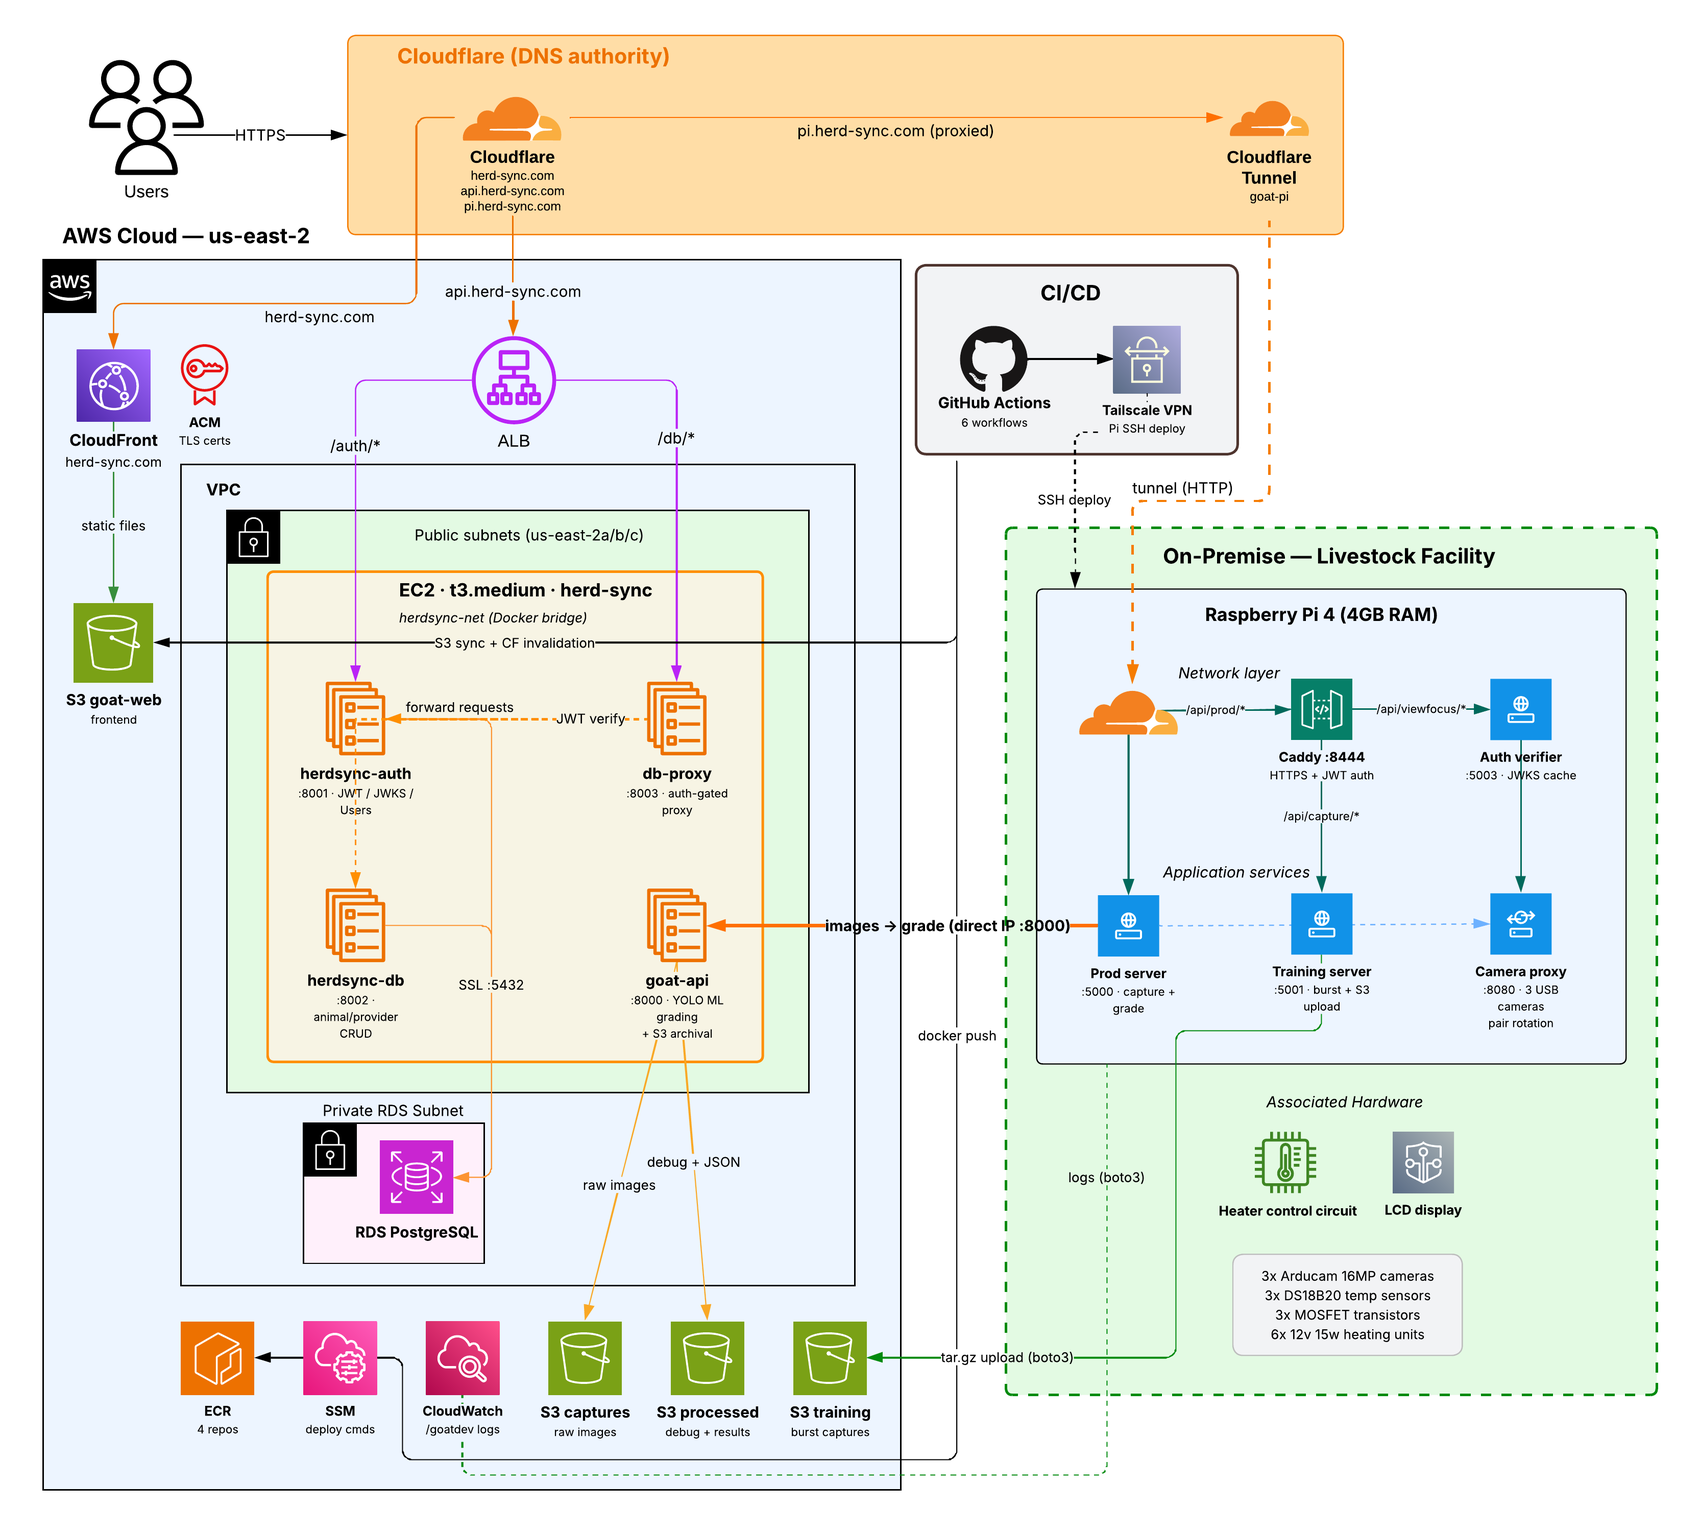
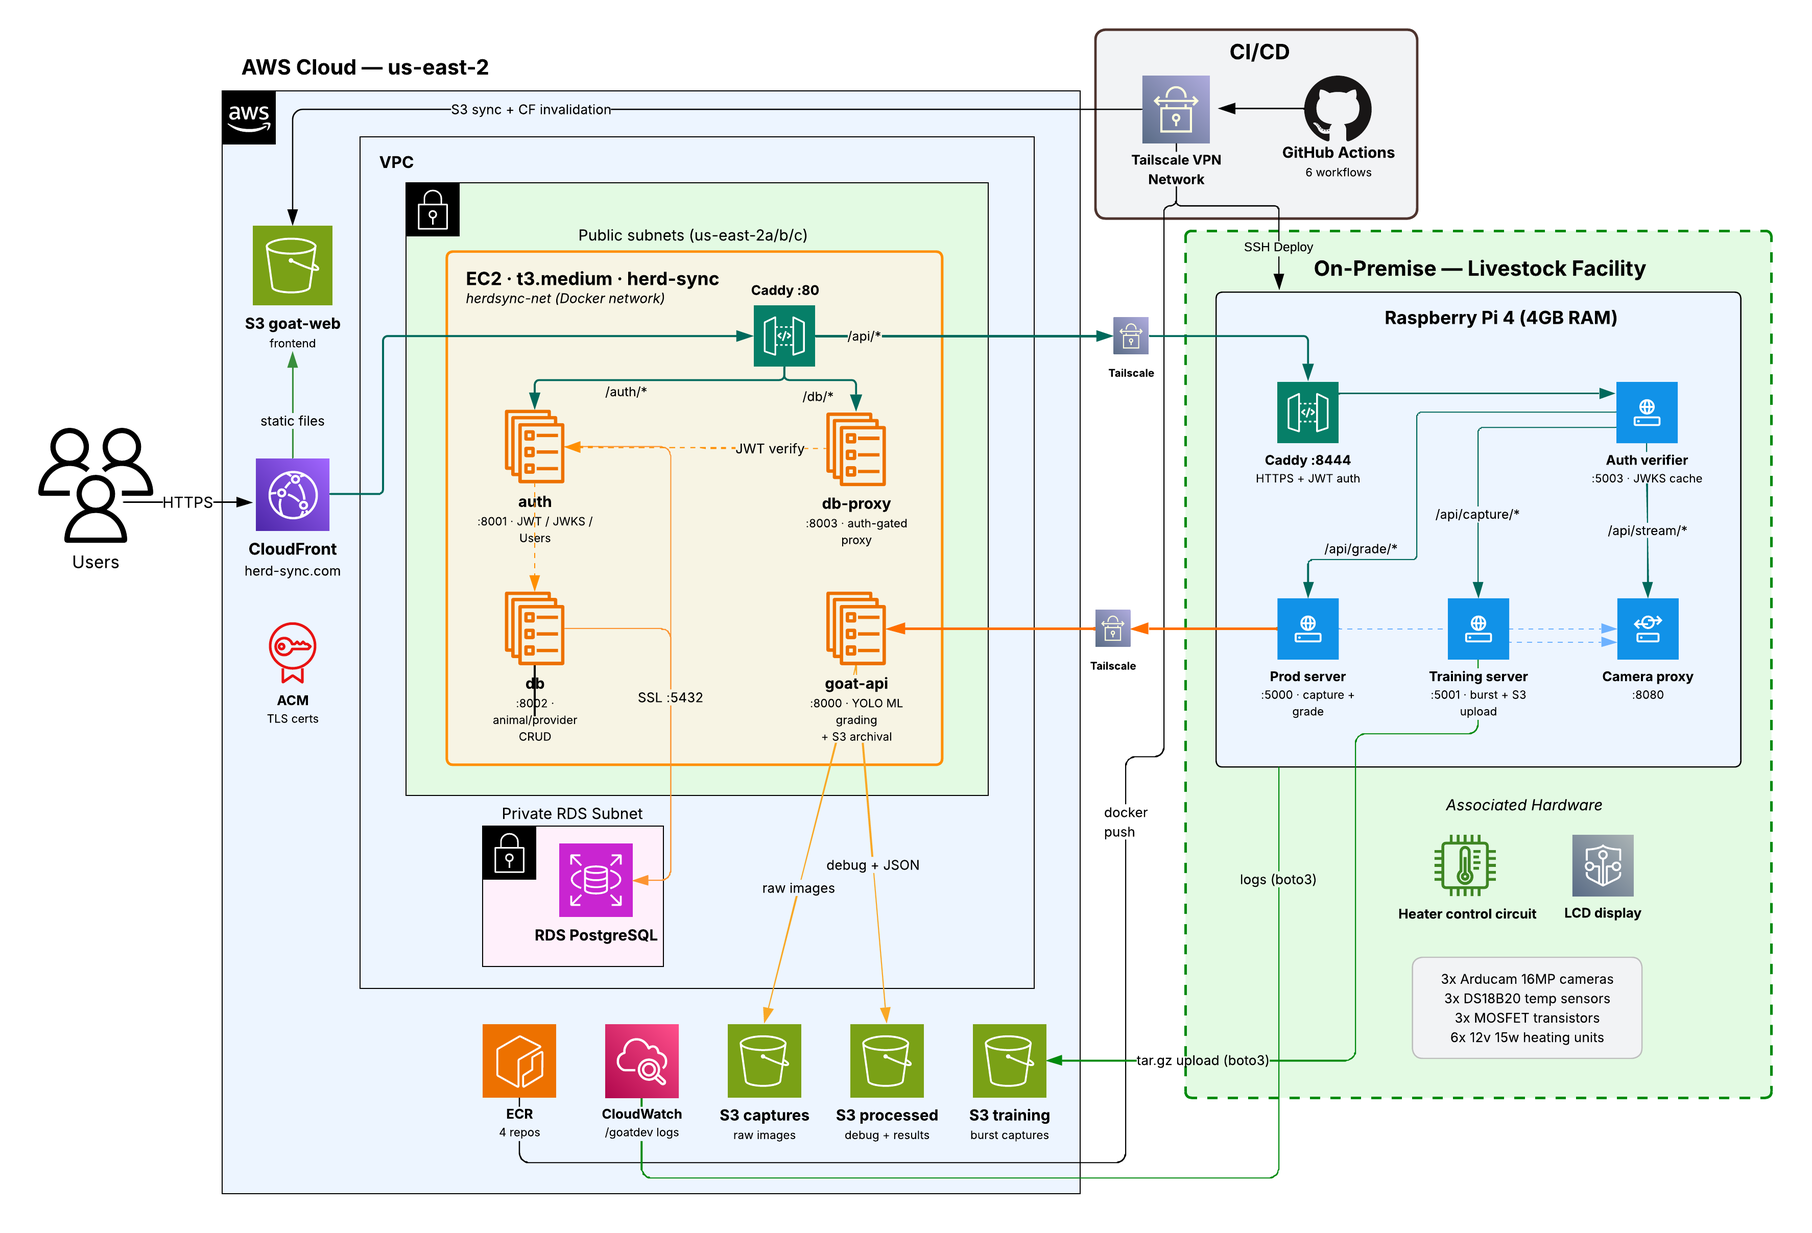
refactor(frontend): restructure the frontend applications
- in api key header passing again
- Setup page path cleanup
- Updated arch diagrams

diff --git a/frontend/setup/index.html b/frontend/setup/index.html
@@ -1314,7 +1314,7 @@
         try {
           const c = new AbortController();
           const t = setTimeout(() => c.abort(), 5000);
-          await HerdAuth.fetch(CONFIG.API_BASE + "/api/prod/status", {
+          await HerdAuth.fetch("/api/prod/status", {
             signal: c.signal,
           });
           clearTimeout(t);
@@ -1440,11 +1440,7 @@
         _focusThrottleTimers[cam] = setTimeout(() => {
           _focusThrottleTimers[cam] = null;
           HerdAuth.fetch(
-            CONFIG.API_BASE +
-              "/api/viewfocus/focus/" +
-              cam +
-              "/" +
-              focusValues[cam],
+            "/api/viewfocus/focus/" + cam + "/" + focusValues[cam],
           ).catch(() => {});
         }, 100);
       }
@@ -1503,8 +1499,7 @@
       function _connectFocusStream(img, cam, offlineEl) {
         const token = HerdAuth.getAccessToken();
         img.style.display = "";
-        img.src =
-          CONFIG.API_BASE + "/api/viewfocus/stream/" + cam + "?token=" + token;
+        img.src = "/api/viewfocus/stream/" + cam + "?token=" + token;
       }
 
       function stopFocusStreams() {
@@ -1560,9 +1555,7 @@
         clearTimeout(_focusThrottleTimers[cam]);
         _focusThrottleTimers[cam] = null;
         try {
-          await HerdAuth.fetch(
-            CONFIG.API_BASE + "/api/viewfocus/focus/" + cam + "/" + val,
-          );
+          await HerdAuth.fetch("/api/viewfocus/focus/" + cam + "/" + val);
         } catch (e) {}
       }
 
@@ -1573,10 +1566,9 @@
         const msgEl = document.getElementById("fmsg-" + cam);
 
         try {
-          const r = await HerdAuth.fetch(
-            CONFIG.API_BASE + "/api/viewfocus/autofocus/" + cam,
-            { method: "POST" },
-          );
+          const r = await HerdAuth.fetch("/api/viewfocus/autofocus/" + cam, {
+            method: "POST",
+          });
           if (r.ok) {
             _afActive[cam] = true;
             btn.textContent = "AF ●";
@@ -1595,9 +1587,7 @@
 
       async function loadFocusFromStatus() {
         try {
-          const r = await HerdAuth.fetch(
-            CONFIG.API_BASE + "/api/viewfocus/status",
-          );
+          const r = await HerdAuth.fetch("/api/viewfocus/status");
           if (r.ok) {
             const data = await r.json();
             if (data.settings) {
@@ -1624,7 +1614,7 @@
         for (const cam of CAMERAS) {
           try {
             const r = await HerdAuth.fetch(
-              CONFIG.API_BASE + "/api/viewfocus/capture/burst/" + cam,
+              "/api/viewfocus/capture/burst/" + cam,
               {
                 method: "POST",
                 headers: { "Content-Type": "application/json" },
@@ -1692,7 +1682,6 @@
               ) {
                 this.style.display = "";
                 this.src =
-                  CONFIG.API_BASE +
                   "/api/viewfocus/stream/" +
                   cam +
                   "?token=" +
@@ -1703,12 +1692,7 @@
             }, 10000);
           };
           slot.insertBefore(img, slot.firstChild);
-          img.src =
-            CONFIG.API_BASE +
-            "/api/viewfocus/stream/" +
-            cam +
-            "?token=" +
-            token;
+          img.src = "/api/viewfocus/stream/" + cam + "?token=" + token;
         });
       }
 
@@ -1782,9 +1766,7 @@
           return;
         }
         try {
-          const r = await HerdAuth.fetch(
-            CONFIG.API_BASE + "/api/heater/status",
-          );
+          const r = await HerdAuth.fetch("/api/heater/status");
           if (!r.ok) throw new Error("HTTP " + r.status);
           const data = await r.json();
           if (data.thresholds) {
@@ -1913,7 +1895,7 @@
           return;
         }
         try {
-          await HerdAuth.fetch(CONFIG.API_BASE + "/api/heater/override", {
+          await HerdAuth.fetch("/api/heater/override", {
             method: "POST",
             headers: { "Content-Type": "application/json" },
             body: JSON.stringify({ camera, state }),
@@ -1931,9 +1913,7 @@
       async function fetchHeaterHistory() {
         if (!piConnected) return;
         try {
-          const r = await HerdAuth.fetch(
-            CONFIG.API_BASE + "/api/heater/history",
-          );
+          const r = await HerdAuth.fetch("/api/heater/history");
           if (!r.ok) throw new Error("HTTP " + r.status);
           const data = await r.json();
           const list = document.getElementById("heaterHistory");
@@ -2005,9 +1985,7 @@
 
         try {
           // Call your new Pi endpoint instead of hitting S3 directly
-          const r = await HerdAuth.fetch(
-            CONFIG.API_BASE + "/api/capture/next_id",
-          );
+          const r = await HerdAuth.fetch("/api/capture/next_id");
           if (!r.ok) throw new Error("Server error");
 
           const data = await r.json();
@@ -2068,12 +2046,9 @@
           try {
             const controller = new AbortController();
             const timer = setTimeout(() => controller.abort(), 5000);
-            const pingResp = await HerdAuth.fetch(
-              CONFIG.API_BASE + "/api/prod/status",
-              {
-                signal: controller.signal,
-              },
-            );
+            const pingResp = await HerdAuth.fetch("/api/prod/status", {
+              signal: controller.signal,
+            });
             clearTimeout(timer);
             if (!pingResp.ok) throw new Error("Status " + pingResp.status);
             captureLog("Pi connected", "ok");
@@ -2095,19 +2070,16 @@
           const captureId = isMock ? "test_" + Date.now() : captureGoatId;
 
           captureLog("POST /api/capture/record ...", "info");
-          const response = await HerdAuth.fetch(
-            CONFIG.API_BASE + "/api/capture/record",
-            {
-              method: "POST",
-              headers: { "Content-Type": "application/json" },
-              body: JSON.stringify({
-                goat_id: captureId,
-                goat_data: goatData,
-                is_test: isMock,
-                require_all_cameras: !isMock,
-              }),
-            },
-          );
+          const response = await HerdAuth.fetch("/api/capture/record", {
+            method: "POST",
+            headers: { "Content-Type": "application/json" },
+            body: JSON.stringify({
+              goat_id: captureId,
+              goat_data: goatData,
+              is_test: isMock,
+              require_all_cameras: !isMock,
+            }),
+          });
           if (!response.ok) {
             const err = await response.json().catch(() => ({}));
             const msg =
@@ -2173,9 +2145,7 @@
           await new Promise((r) => setTimeout(r, 500));
           let data;
           try {
-            const r = await HerdAuth.fetch(
-              CONFIG.API_BASE + "/api/capture/status",
-            );
+            const r = await HerdAuth.fetch("/api/capture/status");
             data = await r.json();
           } catch (e) {
             captureLog("Retrying...", "warn");

diff --git a/frontend/index.html b/frontend/index.html
@@ -1020,7 +1020,7 @@
         },
         { threshold: 0.06, rootMargin: "0px 0px -40px 0px" },
       );
-      document.querySelectorAll(".sr").forEach((e) => o.observe(e)); //
+      document.querySelectorAll(".sr").forEach((e) => o.observe(e));
     </script>
   </body>
 </html>

diff --git a/pi/servers/prod_server.py b/pi/servers/prod_server.py
@@ -30,6 +30,7 @@ load_dotenv("/home/pi/goatdev/pi/.env")
 
 EC2_IP = os.environ.get('EC2_IP')
 EC2_GOAT_API = os.environ.get('EC2_GOAT_API')
+API_KEY = os.environ.get('API_KEY', '')
 
 # Camera paths (for reference / diagnostics)
 CAMERAS = {
@@ -410,6 +411,7 @@ def do_grade(serial_id: str, live_weight: float, description: str = 'meat'):
                 f'{EC2_GOAT_API}/analyze',
                 files=files,
                 data=data,
+                headers={'X-API-Key': API_KEY},
                 timeout=EC2_TIMEOUT_SEC
             )
             ec2_time = round(time.time() - ec2_start, 2)
@@ -915,6 +917,7 @@ def grade_test():
             f'{EC2_GOAT_API}/analyze',
             files=files,
             data=data,
+            headers={'X-API-Key': API_KEY},
             timeout=EC2_TIMEOUT_SEC
         )
         ec2_time = round(time.time() - ec2_start, 2)
@@ -1118,6 +1121,7 @@ def proxy_debug_image(serial_id, view):
     try:
         resp = requests.get(
             f'{EC2_GOAT_API}/debug/{sanitized}/{view}',
+            headers={'X-API-Key': API_KEY},
             timeout=REQUEST_TIMEOUT_SEC
         )
 

diff --git a/pi/README.md b/pi/README.md
@@ -1,6 +1,6 @@
 # Raspberry Pi - Edge Device
 
-All software running on the Raspberry Pi 4 at the livestock facility. Owns cameras, temperature sensors, heater circuits, and an LCD status display. Connects to the cloud via Cloudflare Tunnel (HTTPS) and Tailscale VPN (SSH/deployment).
+All software running on the Raspberry Pi 4 at the livestock facility. Owns cameras, temperature sensors, heater circuits, and an LCD status display. Connected to the cloud via Tailscale VPN for both API traffic and SSH deployment.
 
 ## Services
 
@@ -19,12 +19,12 @@ Six application services run as systemd units, plus Caddy as the reverse proxy:
 ## Architecture
 
 ```
-Internet → Cloudflare Tunnel → Caddy (:8444)
-                                  ├── /api/viewfocus/* → camera-proxy (:8080)
-                                  ├── /api/prod/*      → prod_server (:5000)
-                                  ├── /api/capture/*   → training_server (:5001)
-                                  ├── /api/heater/*    → camera_heating (:5002)
-                                  └── forward_auth     → auth_verifier (:5003)
+EC2 Caddy → Tailscale → Pi Caddy (:8444)
+                            ├── /api/viewfocus/* → camera-proxy (:8080)
+                            ├── /api/prod/*      → prod_server (:5000)
+                            ├── /api/capture/*   → training_server (:5001)
+                            ├── /api/heater/*    → camera_heating (:5002)
+                            └── forward_auth     → auth_verifier (:5003)
 
 Tailscale VPN → Caddy (:443, Tailscale TLS)
                   └── (same routing as above)
@@ -52,7 +52,7 @@ pi/
 │   └── pi_heartbeat_cron.py        # Cron health check: logs errors when services are down
 └── system/
     ├── deploy.sh                   # Installs services, udev rules, cron, Caddyfile
-    ├── Caddyfile                   # Reverse proxy config (two server blocks: Tailscale + tunnel)
+    ├── Caddyfile                   # Reverse proxy config (Tailscale TLS + HTTP on 8444)
     ├── 99-cameras.rules            # udev rules for stable /dev/camera_* symlinks
     ├── camera-proxy.service        # systemd unit (gunicorn + geventwebsocket worker, root)
     ├── goat-prod.service           # systemd unit (python3, user=pi)
@@ -85,7 +85,7 @@ Production grading workflow:
 1. Pre-checks: verify EC2 reachable, all cameras connected
 2. Signals camera proxy for full-res capture of all 3 cameras
 3. Pulls individual frames from SHM via `/capture/frame/<camera>`
-4. Sends all 3 images + metadata to EC2's `/analyze` endpoint
+4. Sends all 3 images + metadata to EC2's `/analyze` endpoint over Tailscale
 5. EC2 runs YOLO inference, returns grade + measurements
 6. EC2 handles S3 archival (Pi does not write to S3 for grading)
 
@@ -115,7 +115,7 @@ Thermostat for camera enclosure heaters:
 
 Lightweight JWT verifier for Caddy's `forward_auth`:
 
-- Fetches RSA public key from EC2's JWKS endpoint on startup
+- Fetches RSA public key from EC2's JWKS endpoint via Tailscale on startup
 - Caches key, refreshes hourly
 - Validates JWT from `Authorization: Bearer` header or `?token=` query param (for MJPEG streams loaded via `<img>` tags)
 - Returns 200 (allow) or 401 (deny) - Caddy only checks the status code
@@ -138,16 +138,16 @@ SPI LCD status display (2.4" ILI9341, 240x320):
 
 ## Environment Variables
 
-Stored in `/home/pi/goatdev/pi/.env` and `/home/pi/.env`:
+Stored in `/home/pi/goatdev/pi/.env`:
 
-| Variable             | Description                                         |
-| -------------------- | --------------------------------------------------- |
-| `EC2_IP`             | Public IP of the EC2 instance                       |
-| `EC2_API_KEY`        | API key matching goat-api's `API_KEY`               |
-| `EC2_GOAT_API`       | Full URL to goat-api (e.g., `http://<EC2_IP>:8000`) |
-| `S3_TRAINING_BUCKET` | S3 bucket for training data uploads                 |
-| `AUTH_JWKS_URL`      | JWKS endpoint URL for public key fetch              |
-| `SITE_DOMAIN`        | Caddy domain for Tailscale TLS cert                 |
+| Variable             | Description                                                       |
+| -------------------- | ----------------------------------------------------------------- |
+| `EC2_IP`             | Tailscale IP of the EC2 instance                                  |
+| `EC2_GOAT_API`       | Full URL to goat-api over Tailscale                               |
+| `API_KEY`            | API key matching goat-api's `API_KEY` (sent via X-API-Key header) |
+| `S3_TRAINING_BUCKET` | S3 bucket for training data uploads                               |
+| `AUTH_JWKS_URL`      | JWKS endpoint over Tailscale                                      |
+| `SITE_DOMAIN`        | Caddy domain for Tailscale TLS cert                               |
 
 ## Deployment
 

diff --git a/README.md b/README.md
@@ -38,11 +38,11 @@ The platform also manages the facility's day-to-day operations: animal records, 
 | **Auth Verifier**   | Flask, PyJWT                         | Pi-local JWT validation for Caddy                 |
 | **Status Display**  | Pillow, SPI LCD                      | Real-time system health on 2.4" ILI9341           |
 
-**Cloud (AWS us-east-2):** EC2 t3.medium runs 4 Docker containers (auth, db, db-proxy, goat-api). RDS PostgreSQL 17.2 for data. S3 for frontend hosting, raw captures, debug images, and training data. CloudFront CDN with OAC for the frontend. ALB routes API traffic.
+**Cloud (AWS us-east-2):** EC2 t3.medium runs 4 Docker containers (auth, db, db-proxy, goat-api) behind a Caddy reverse proxy. RDS PostgreSQL 17.2 for data. S3 for frontend hosting, raw captures, debug images, and training data. CloudFront CDN serves the frontend and routes all API traffic (/auth/_, /db/_, /api/\*) to EC2.
 
-**Edge (Raspberry Pi 4):** On-premise at the facility. Owns 3 USB cameras, 3 temperature sensors, 3 heater circuits, and an SPI display. 6 application services managed by systemd. Connected to the cloud via Cloudflare Tunnel (HTTPS) and Tailscale VPN (SSH/deployment).
+**Edge (Raspberry Pi 4):** On-premise at the facility. Owns 3 USB cameras, 3 temperature sensors, 3 heater circuits, and an SPI display. 6 application services managed by systemd. Connected to the cloud via Tailscale VPN for both API traffic and SSH deployment.
 
-**CI/CD (GitHub Actions):** 6 workflows deploy to EC2 (Docker via SSM), S3 (frontend sync), and Pi (git pull via Tailscale SSH).
+**CI/CD (GitHub Actions):** 6 workflows deploy to EC2 (Docker via Tailscale SSH), S3 (frontend sync), and Pi (git pull via Tailscale SSH).
 
 ## Repository Structure
 
@@ -58,7 +58,7 @@ goatdev/
 │   ├── dashboard/          # Main application (animals, grading, providers, logs)
 │   ├── signin/             # Login page
 │   ├── setup/              # Camera focus, heater, and capture setup
-│   ├── js/                 # auth.js, config.js
+│   ├── js/                 # auth.js
 │   └── logos/              # Brand assets (dark/light variants)
 ├── pi/                     # Raspberry Pi services and system config
 │   ├── servers/            # camera_proxy, prod, training, heating, auth_verifier
@@ -92,7 +92,7 @@ Each service directory has its own README with detailed documentation:
 10. Operator reviews grade, measurements, and debug overlays in a modal
 11. On accept: animal record created/updated in PostgreSQL, grade result stored
 
-## Training Data Colection Pipeline
+## Training Data Collection Pipeline
 
 ```
 Setup Page → Pi Training Server → Camera Proxy (burst) → S3 Training Bucket
@@ -107,7 +107,7 @@ Separate from grading. Captures 20 frames per camera at 1.5-second intervals for
 - **Rate limiting** - login attempts tracked by IP and username independently. 5 attempts per 5-minute window, 15-minute lockout.
 - **S3 private buckets** - frontend bucket uses CloudFront OAC (no public access). Capture/training buckets are private with IAM policies.
 - **Pi auth gating** - every API request through Caddy goes through `forward_auth` to a local JWT verifier. The verifier caches the public key from JWKS.
-- **API key for Pi→EC2** - service-to-service grading calls use a shared API key in `X-API-Key` header. Simpler than JWT for machine-to-machine.
+- **API key for Pi→EC2** - service-to-service grading calls use a shared API key in `X-API-Key` header over Tailscale. Simpler than JWT for machine-to-machine.
 
 ## Tech Stack
 
@@ -118,9 +118,9 @@ Separate from grading. Captures 20 frames per camera at 1.5-second intervals for
 | Database       | PostgreSQL 17.2 (RDS), asyncpg, FastAPI                     |
 | AI/CV          | PyTorch 2.5 (CPU), YOLO (ultralytics), OpenCV               |
 | Edge           | Flask, gunicorn + gevent, OpenCV, RPi.GPIO, Pillow          |
-| Infrastructure | EC2, RDS, S3, CloudFront, ALB, ECR, CloudWatch              |
-| Networking     | Cloudflare Tunnel, Tailscale VPN, Caddy v2                  |
-| CI/CD          | GitHub Actions (6 workflows), Docker, SSM                   |
+| Infrastructure | EC2, RDS, S3, CloudFront, ECR, CloudWatch, Route53          |
+| Networking     | Tailscale VPN, Caddy v2                                     |
+| CI/CD          | GitHub Actions (6 workflows), Docker, Tailscale SSH         |
 | Hardware       | Raspberry Pi 4 (4GB), 3x Arducam 16MP, DS18B20, ILI9341 LCD |
 
 ##

diff --git a/goat-api/README.md b/goat-api/README.md
@@ -68,12 +68,12 @@ model/                      # At repo root, NOT inside goat-api/
 
 ## Environment Variables
 
-| Variable              | Required | Description                                                         |
-| --------------------- | -------- | ------------------------------------------------------------------- |
-| `API_KEY`             | Yes      | Shared secret for Pi authentication (must match Pi's `EC2_API_KEY`) |
-| `S3_CAPTURES_BUCKET`  | Yes      | Bucket for raw capture images                                       |
-| `S3_PROCESSED_BUCKET` | Yes      | Bucket for debug overlays                                           |
-| `AWS_REGION`          | No       | AWS region (default: `us-east-2`)                                   |
+| Variable              | Required | Description                                                     |
+| --------------------- | -------- | --------------------------------------------------------------- |
+| `API_KEY`             | Yes      | Shared secret for Pi authentication (must match Pi's `API_KEY`) |
+| `S3_CAPTURES_BUCKET`  | Yes      | Bucket for raw capture images                                   |
+| `S3_PROCESSED_BUCKET` | Yes      | Bucket for debug overlays                                       |
+| `AWS_REGION`          | No       | AWS region (default: `us-east-2`)                               |
 
 ## Grade Algorithm
 
